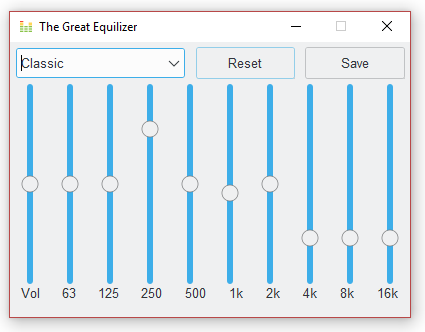
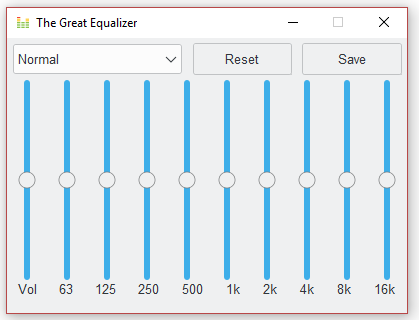
Add files via upload

Changed region(s): [[0.0, 0.0, 0.9928, 1.0]]

diff --git a/equalizer.py b/equalizer.py
@@ -1,5 +1,5 @@
 """
-    A simple GUI template for a media equilizer built with Tkinter
+    A simple GUI template for a media equalizer built with Tkinter
     Author: Israel Dryer
     Modified: 2020-05-11
 """
@@ -9,10 +9,10 @@ from tkinter import ttk
 import ttkthemes
 
 
-# ------- Equilizer Functions ---------
+# ------- Equalizer Functions ---------
 
 def on_reset():
-    """Reset equilizer values to 50 percent"""
+    """Reset equalizer values to 50 percent"""
     for obj in eq_sliders:
         obj.set(50)
     presets.set('Normal')
@@ -30,11 +30,11 @@ def on_save():
     presets.set('Custom')
 
 
-# ------- Equilizer Window ---------
+# ------- Equalizer Window ---------
 
 root = tk.Tk()
 root.withdraw()  # hide the window until completely built
-root.title('The Great Equilizer')
+root.title('The Great Equalizer')
 root.iconbitmap('eqicon.ico')
 root.resizable(False, False)
 
